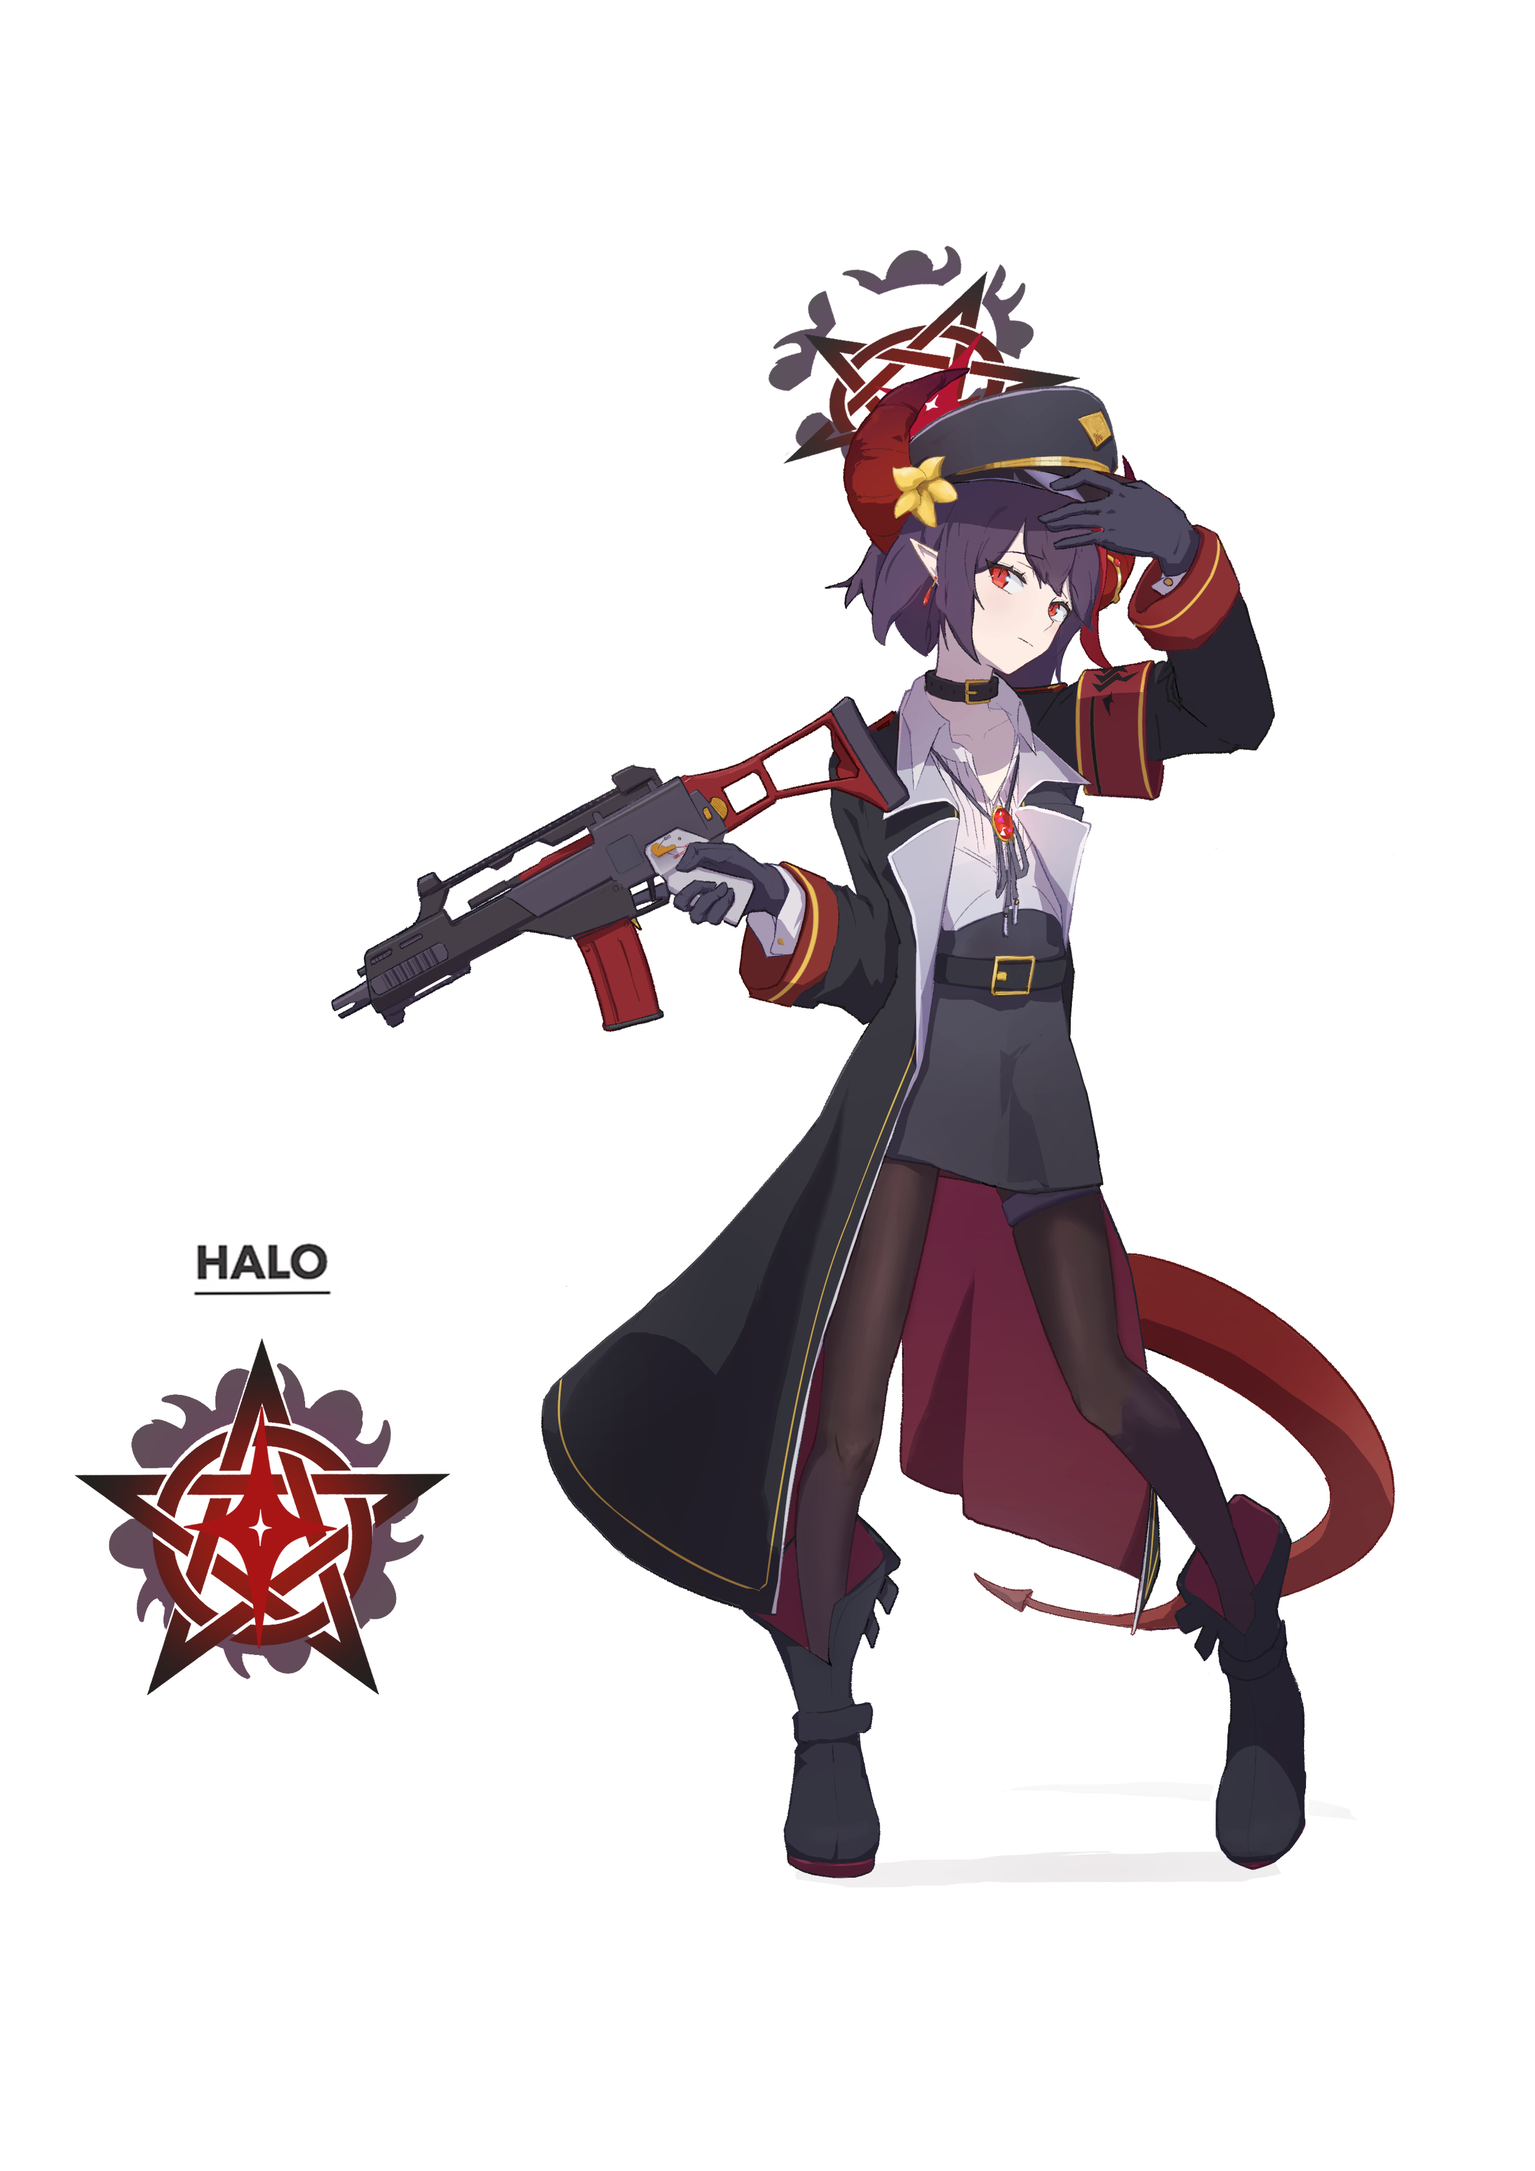
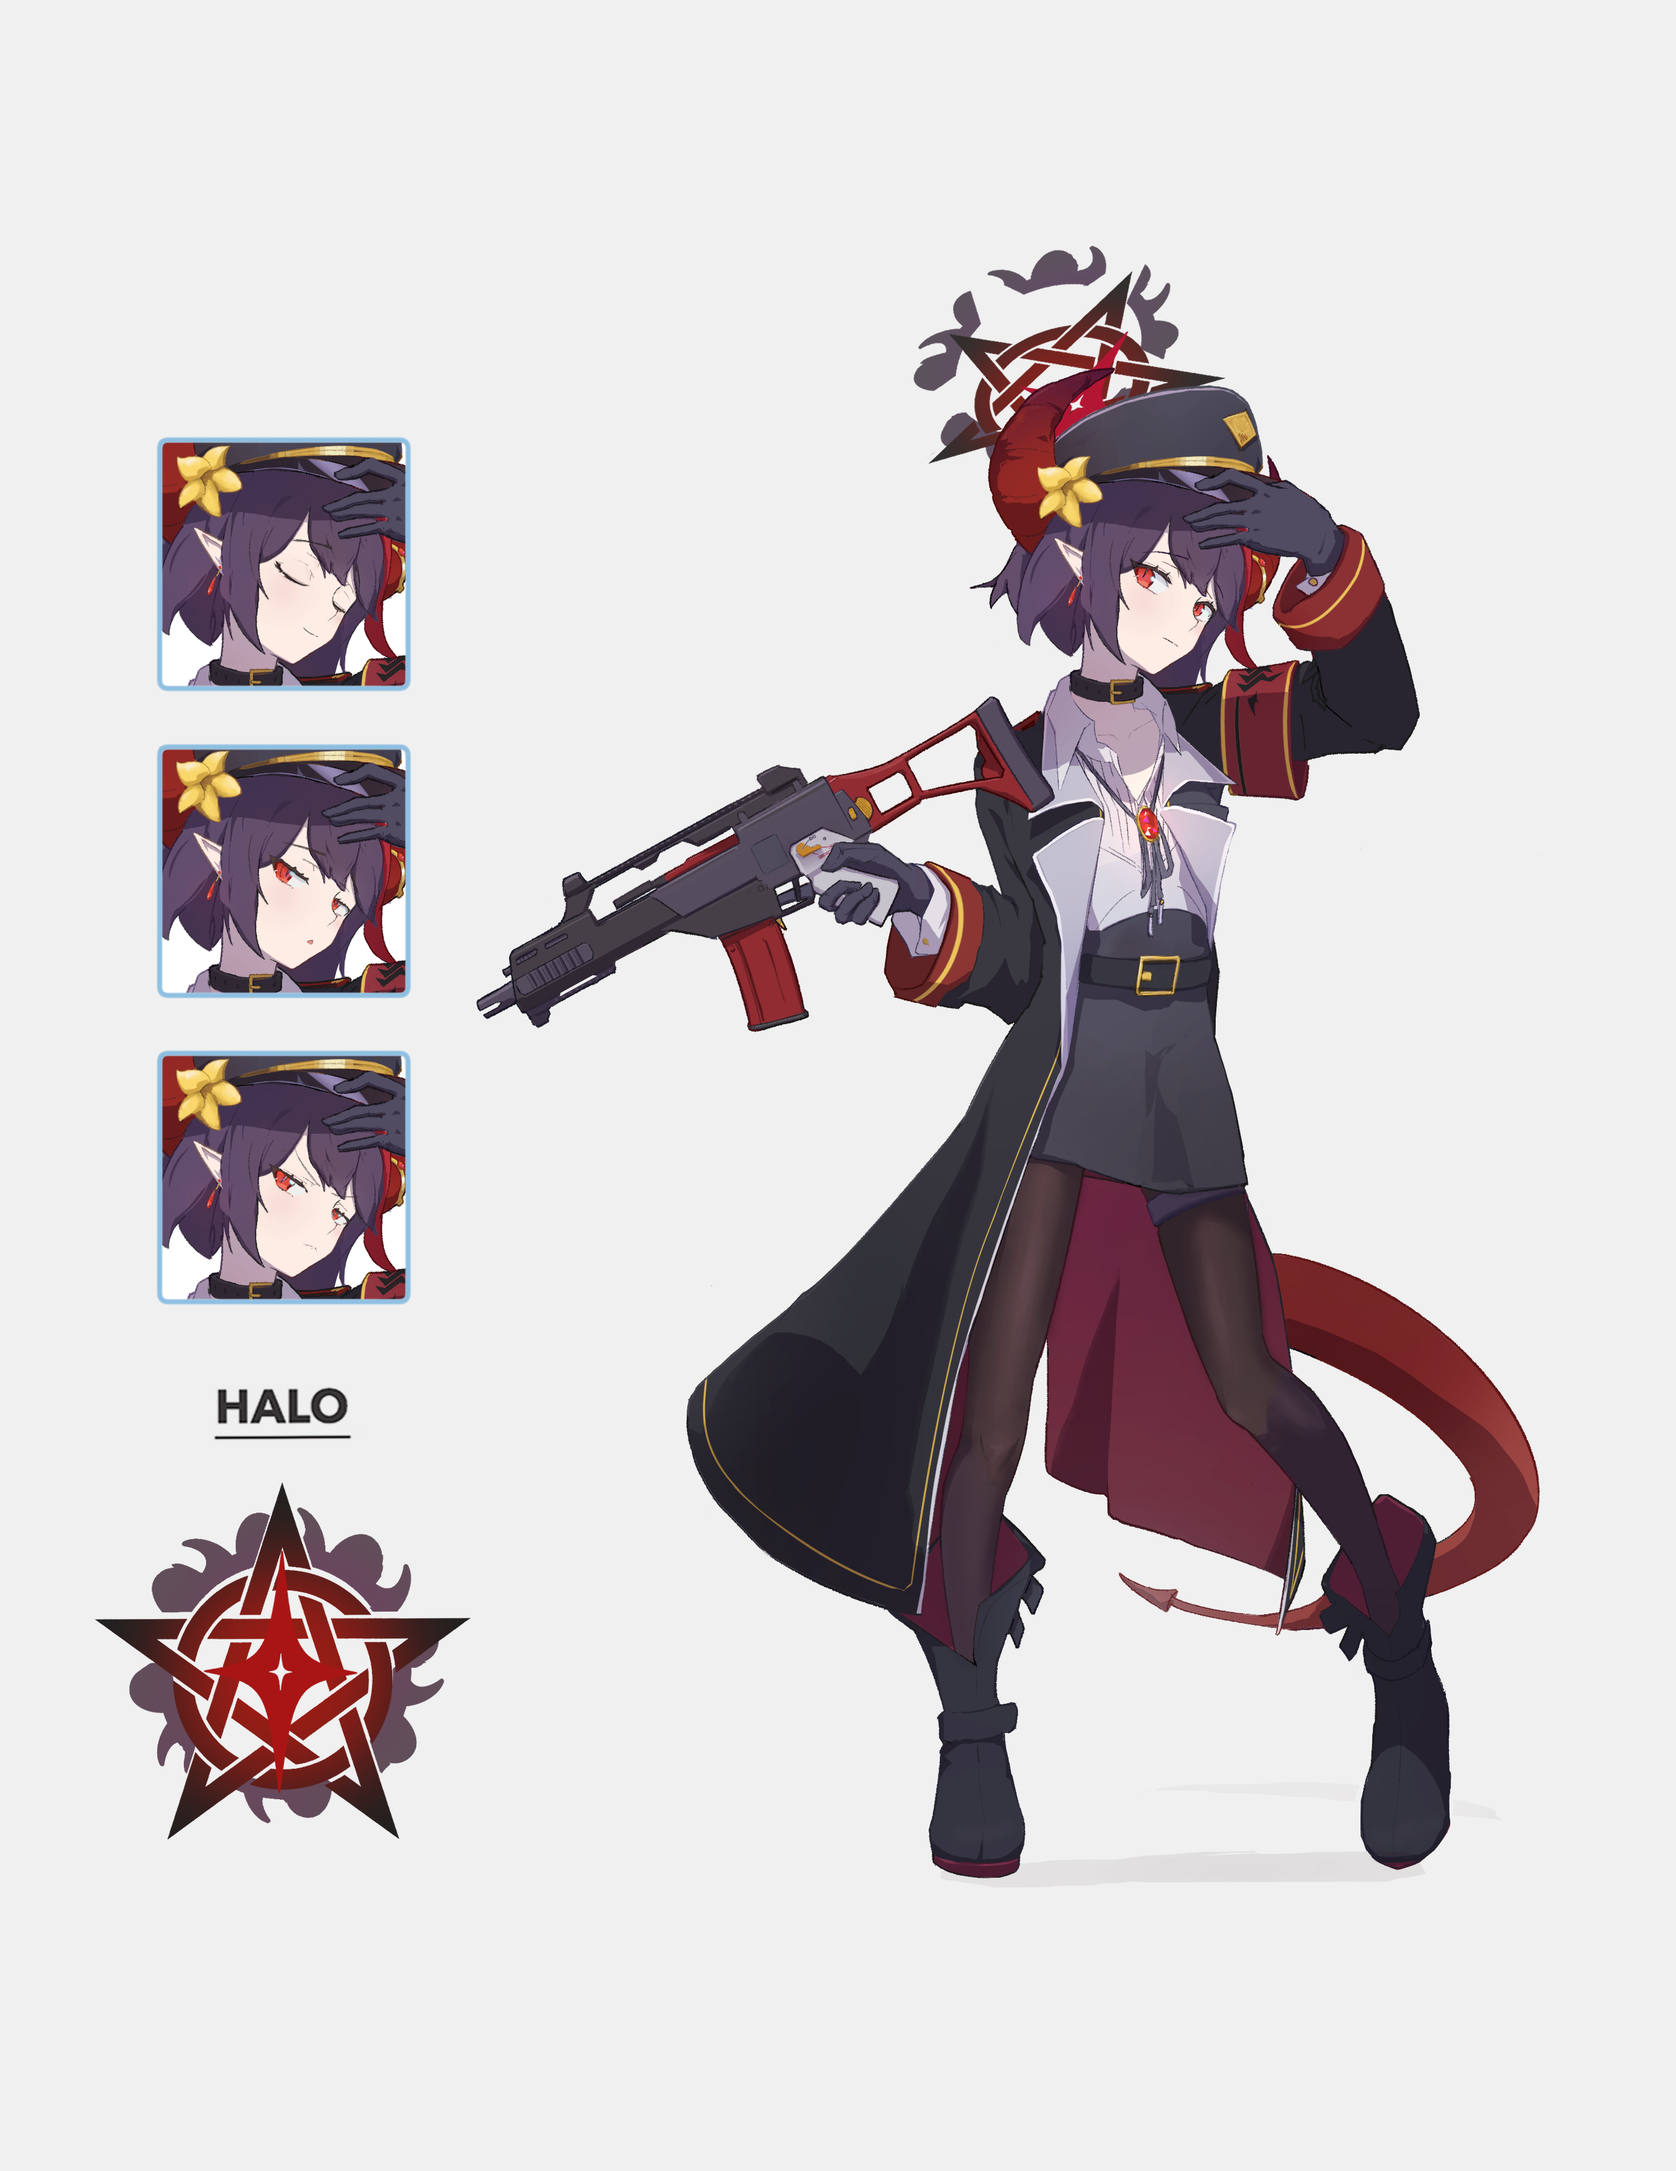
優化圖片、新增委託備註、新增速寫圖在HOME

Changed region(s): [[0.0621, 0.0932, 0.9315, 0.87]]

diff --git a/src/components/Artworks/Artworks.js b/src/components/Artworks/Artworks.js
@@ -1,7 +1,5 @@
 import React from "react";
 import { Container, Row, Col, ListGroup } from "react-bootstrap";
-import ArtworkCards from "./ArtworkCards";
-import FakeImage from "../../Assets/Artworks/Sketch/FakeImage.png";
 import KANNA from "../../Assets/Artworks/ILLUSTATION/KANNA.jpg";
 import CHACHAMARU from "../../Assets/Artworks/ILLUSTATION/CHACHAMARU.jpg";
 import HOSHINO from "../../Assets/Artworks/ILLUSTATION/HOSHINO.jpg";
@@ -12,9 +10,7 @@ import Mai from "../../Assets/Artworks/CharacterDesign/Mai.jpg";
 import Pen from "../../Assets/Artworks/CharacterDesign/Pen.jpg";
 import KANNA_2 from "../../Assets/Artworks/ILLUSTATION/KANNA_2.jpg";
 import tree from "../../Assets/Artworks/CardDesign/tree.jpg";
-import { Link, DirectLink, Element, Events, animateScroll as scroll, scrollSpy, scroller } from 'react-scroll';
-
-
+import ArtworkCards from "./ArtworkCards";
 
 function Artworks() {
   return (
@@ -44,6 +40,14 @@ function Artworks() {
 
             />
           </Col>
+
+          <Col md={3} className="project-card">
+            <ArtworkCards
+              imgSrc={Mai}
+              artworkTitle={"[Commission]"}
+
+            />
+          </Col>
           <Col md={3} className="project-card">
             <ArtworkCards
               imgSrc={HOSHINO}
@@ -59,9 +63,12 @@ function Artworks() {
 
 
 
+
+
+
           <Col md={3} className="project-card">
             <ArtworkCards
-              imgSrc={Mai}
+              imgSrc={Pen}
 
 
             />
@@ -74,15 +81,6 @@ function Artworks() {
 
             />
           </Col>
-          <Col md={3} className="project-card">
-            <ArtworkCards
-              imgSrc={Pen}
-
-
-            />
-          </Col>
-
-
 
           <Col md={3} className="project-card"><ArtworkCards
             imgSrc={tree}

diff --git a/src/components/Home/Home.js b/src/components/Home/Home.js
@@ -2,8 +2,9 @@ import { Container, Row, Col } from "react-bootstrap";
 import homeLogo from "../../Assets/home-main.svg";
 import Home2 from "./Home2";
 import Type from "./Type";
-
 import { useTranslation } from "react-i18next";
+import lipao from "../../Assets/Artworks/QuickSketch/Lipao.jpg";
+import ArtworkCards from "../Artworks/ArtworkCards";
 
 function Home() {
   const { t, i18n } = useTranslation();
@@ -38,11 +39,18 @@ function Home() {
                 兩年前，我做了一個<b className="purple">大膽</b>決定，我想要做<br></br>Art related的工作。自那天以來，我為自己制定了學習計畫並Step by Step <b className="purple">每天實行</b>，即使是假日也不例外。
               </h1>
 
+
+
+
               <div style={{ padding: 50, textAlign: "left" }}>
                 <Type />
               </div>
             </Col>
 
+            <Col md={4}><ArtworkCards
+              imgSrc={lipao}
+              artworkTitle={'30min速寫@麗寶樂園'}
+            /></Col>
           </Row>
         </Container>
       </Container>

diff --git a/src/components/Artworks/ArtworkCards.js b/src/components/Artworks/ArtworkCards.js
@@ -1,8 +1,6 @@
 import React from "react";
 import Card from "react-bootstrap/Card";
-function handleClick() {
-  console.log('Card clicked!');
-}
+
 function ArtworkCards(props) {
   return (
     //TODO:把大圖網址插在上面
@@ -10,10 +8,14 @@ function ArtworkCards(props) {
 
     <Card onClick={() => { window.open(props.imgSrc, "_blank") }} className="project-card-view" >
 
-      <Card.Body> <Card.Img variant="top" src={props.imgSrc} /></Card.Body>
+      <Card.Body> <Card.Img variant="top" src={props.imgSrc} />
+        <Card.Title style={{ textAlign: "center" }}>{props.artworkTitle}</Card.Title>
+      </Card.Body>
       <Card.Footer>
-        <Card.Title>{props.artworkTitle}</Card.Title>
 
+        <Card.Text>
+          {props.desc}
+        </Card.Text>
       </Card.Footer>
 
 
